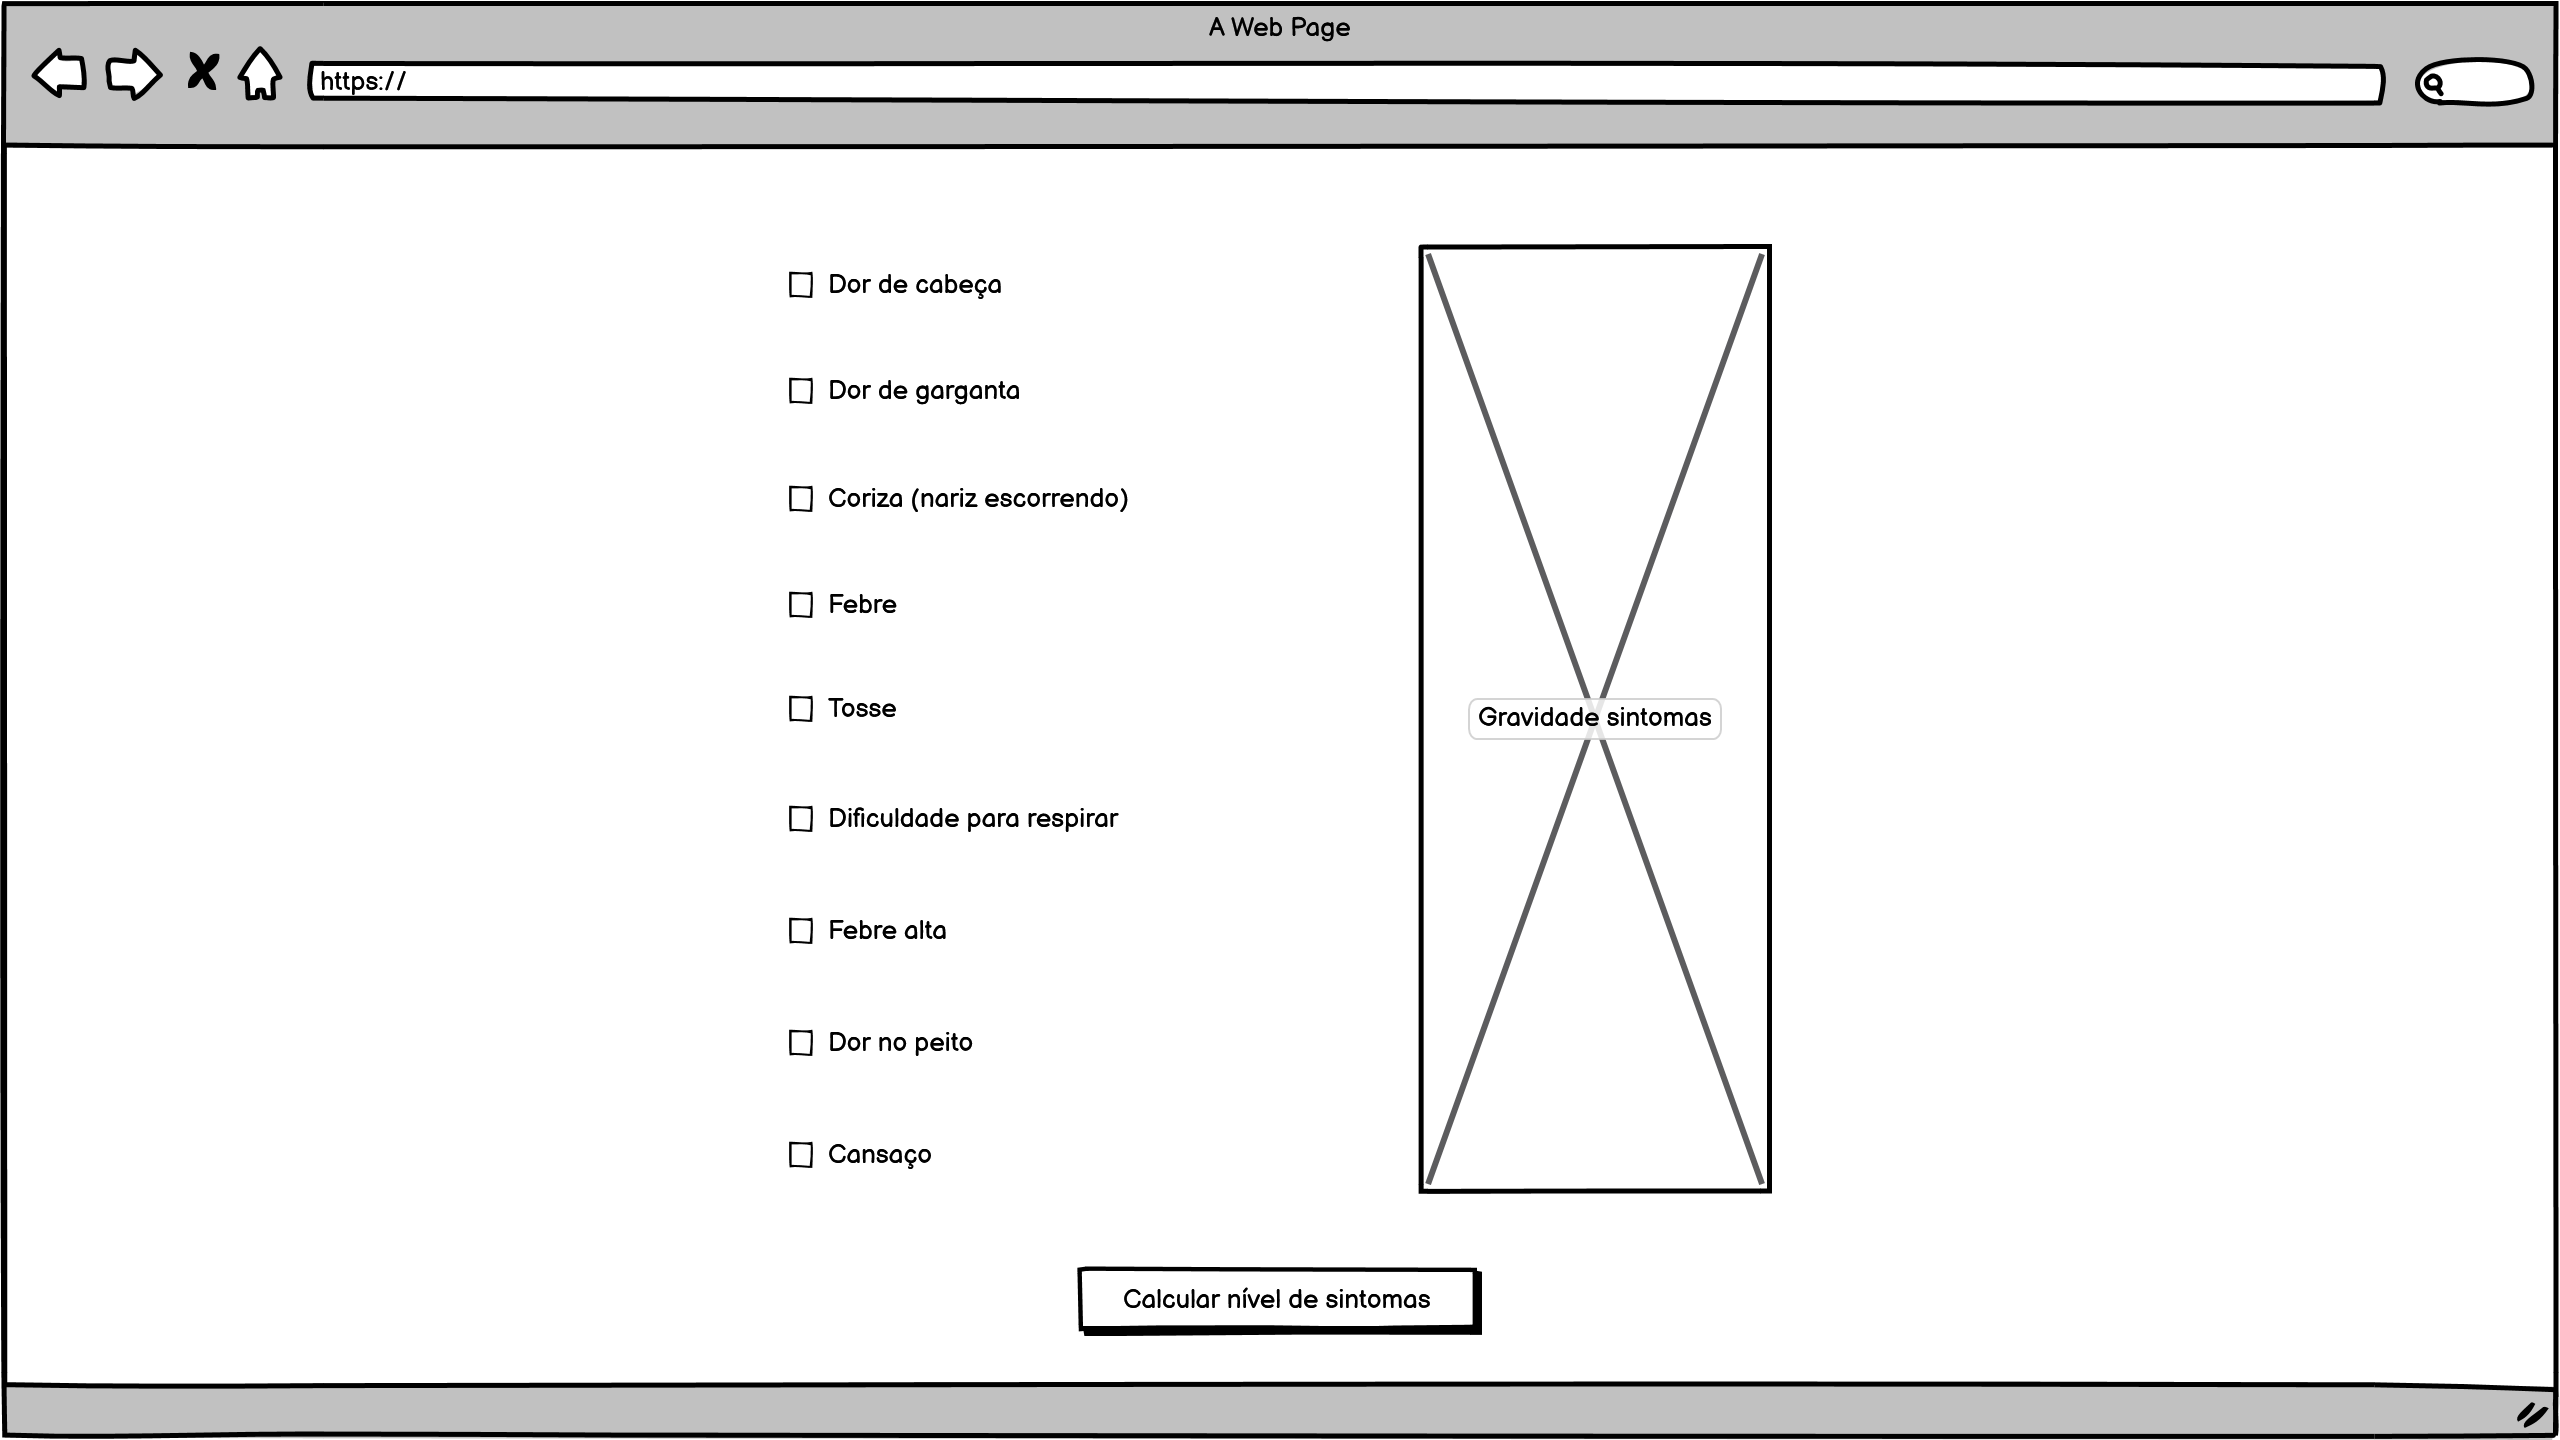
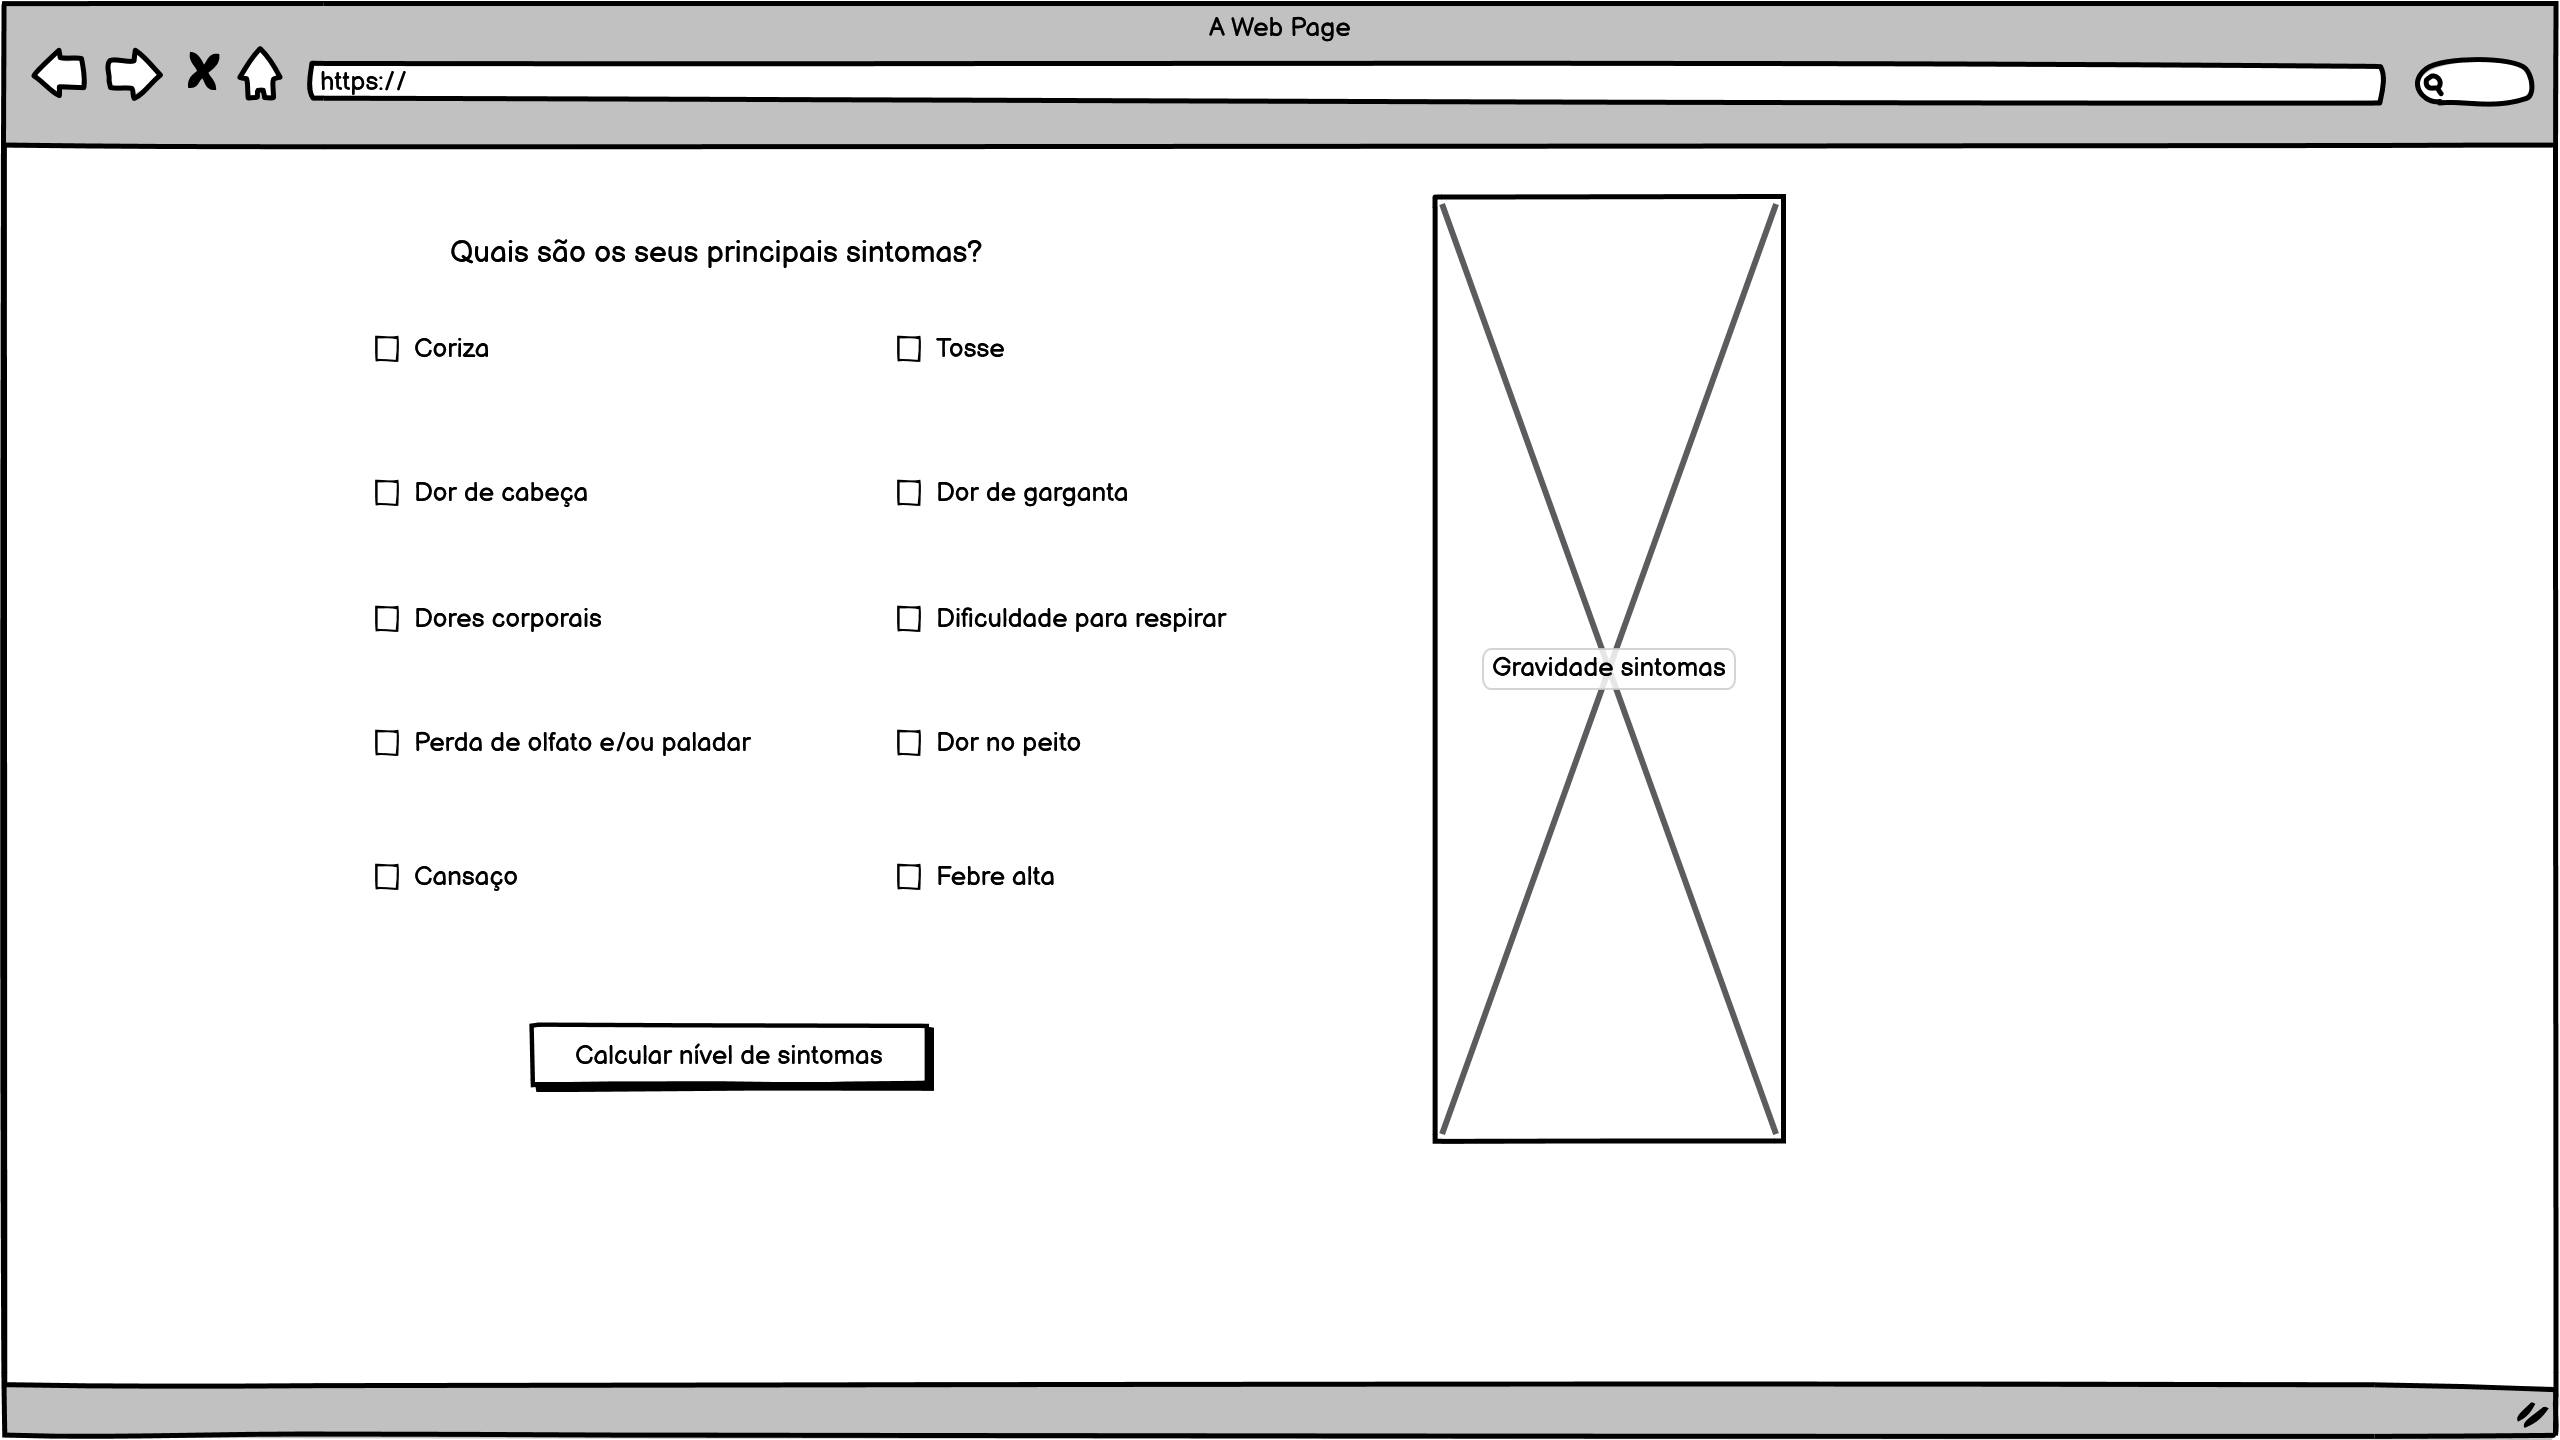
Novos wireframes

diff --git a/doc/Modulo_tratamento/documentacao_quadro.md b/doc/Modulo_tratamento/documentacao_quadro.md
@@ -7,7 +7,5 @@ Essa funcionalidade poderá ser implementada com HTML, CSS e JavaScript. Com con
 A busca pelos postos de saúde ou hospitais será feita utilizando a geolocalização do usuário. 
 
 ## Protótipo
-![Exemplo das telas de sintomas](sintomas_calculo.png)
-![Exemplo sintomas leves](sintomas_leve.png)
-![Exemplo sintomas moderados](sintomas_moderado.png)
-![Exemplo sintomas graves](sintomas_grave.png)
+![Exemplo quadro de informações](quadro_informações.png)
+
